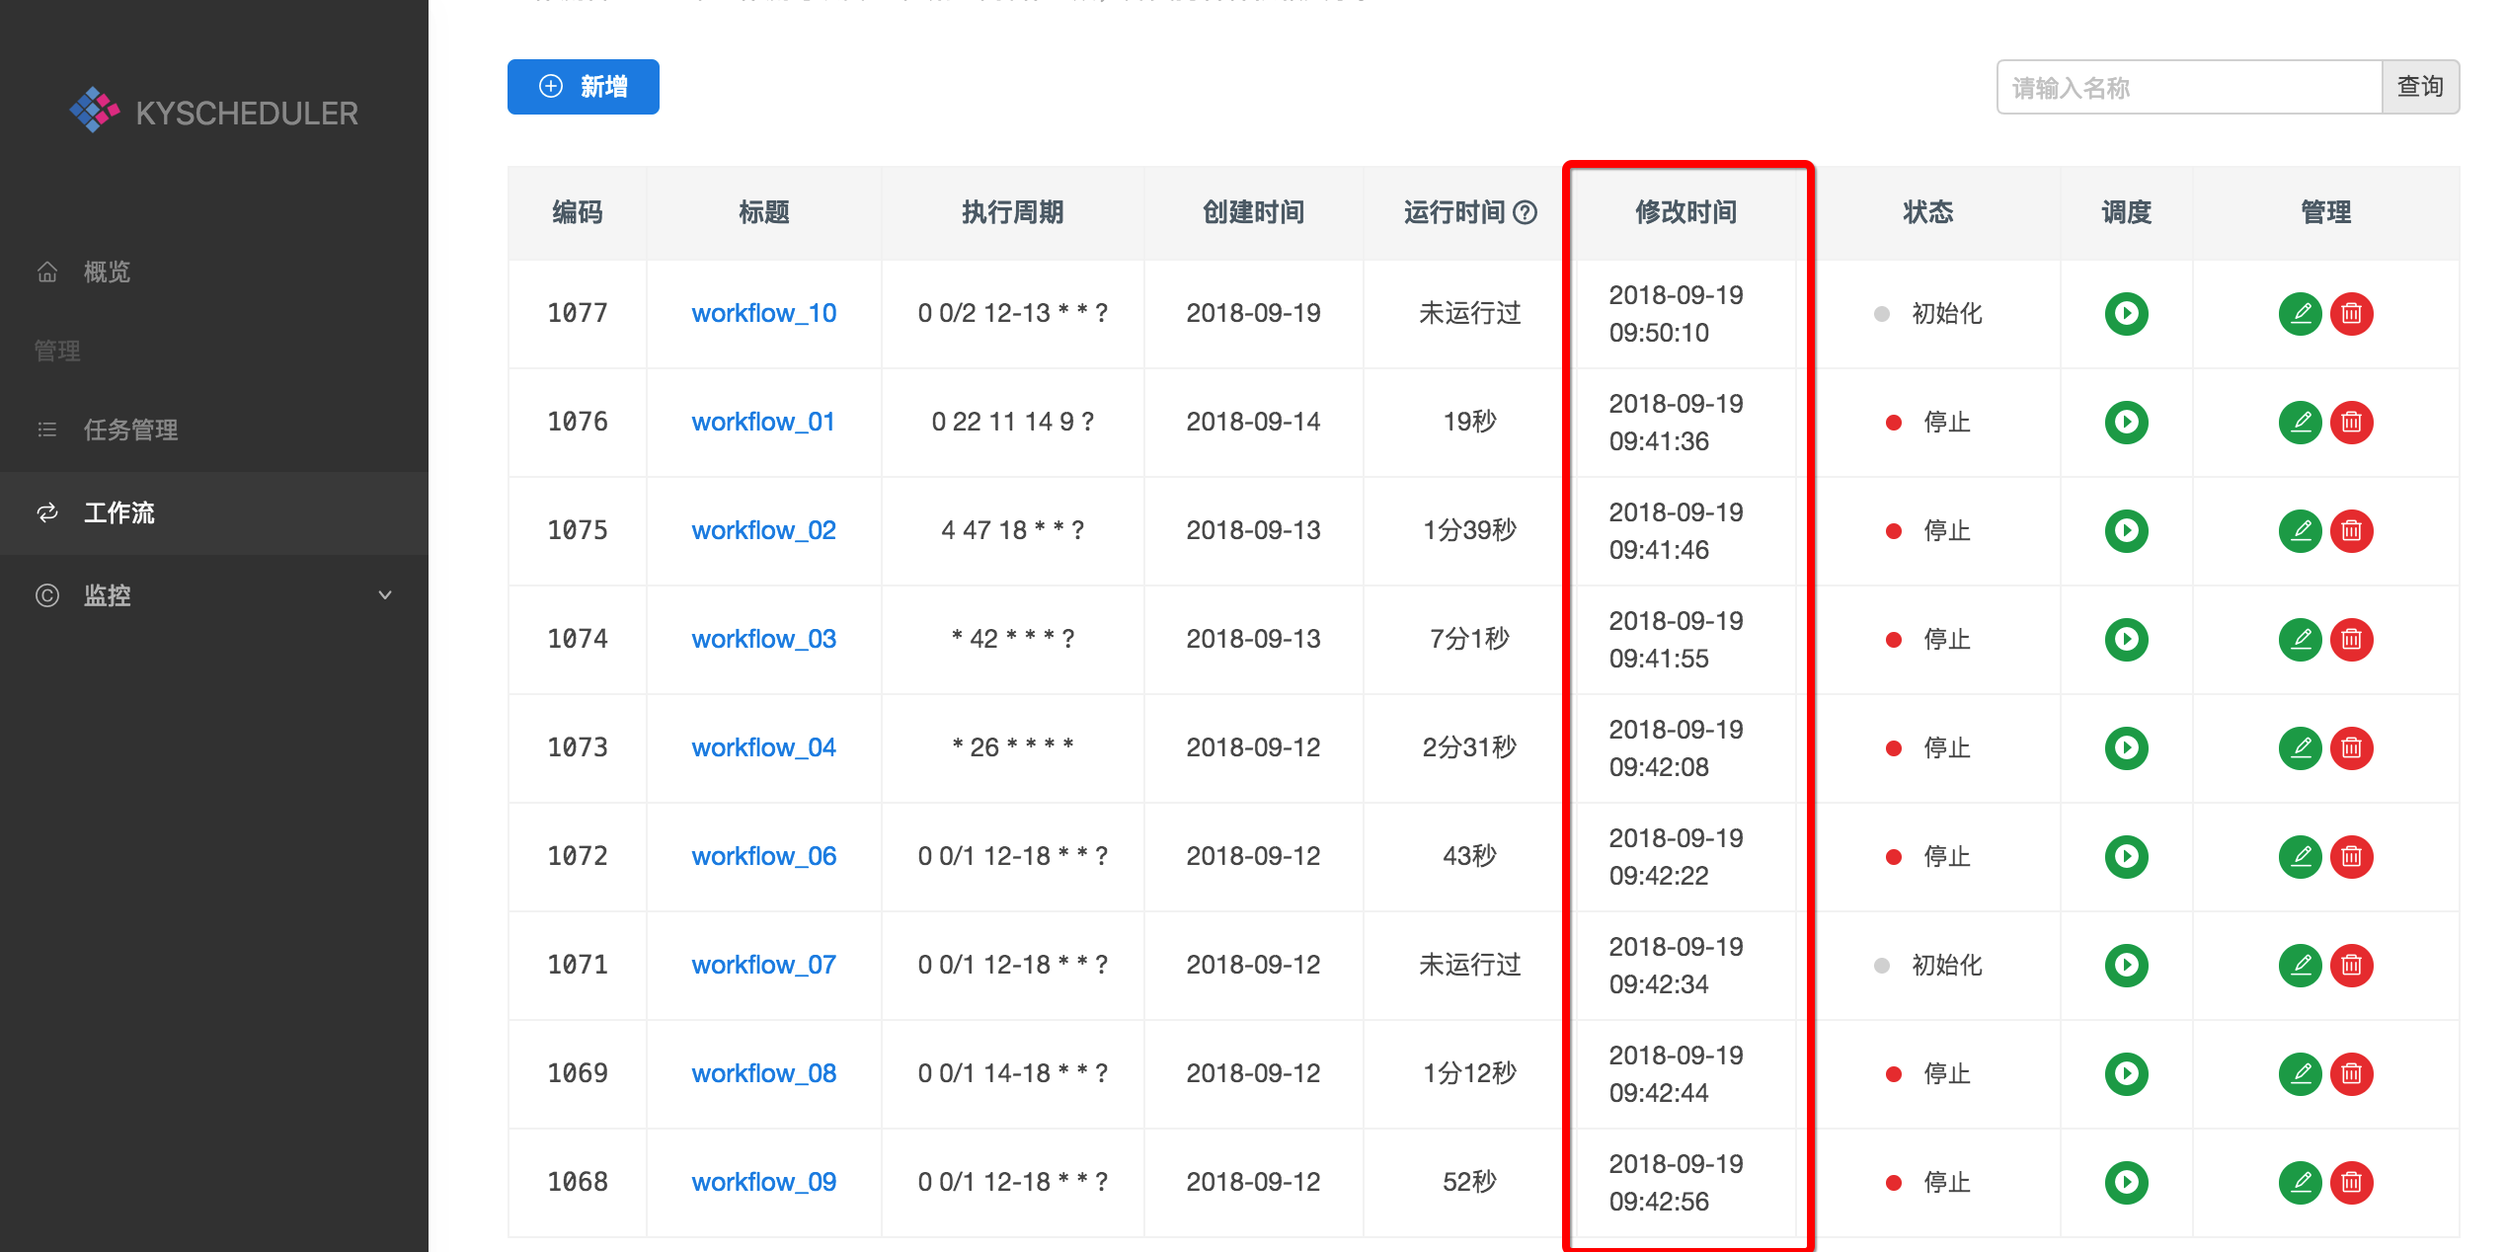
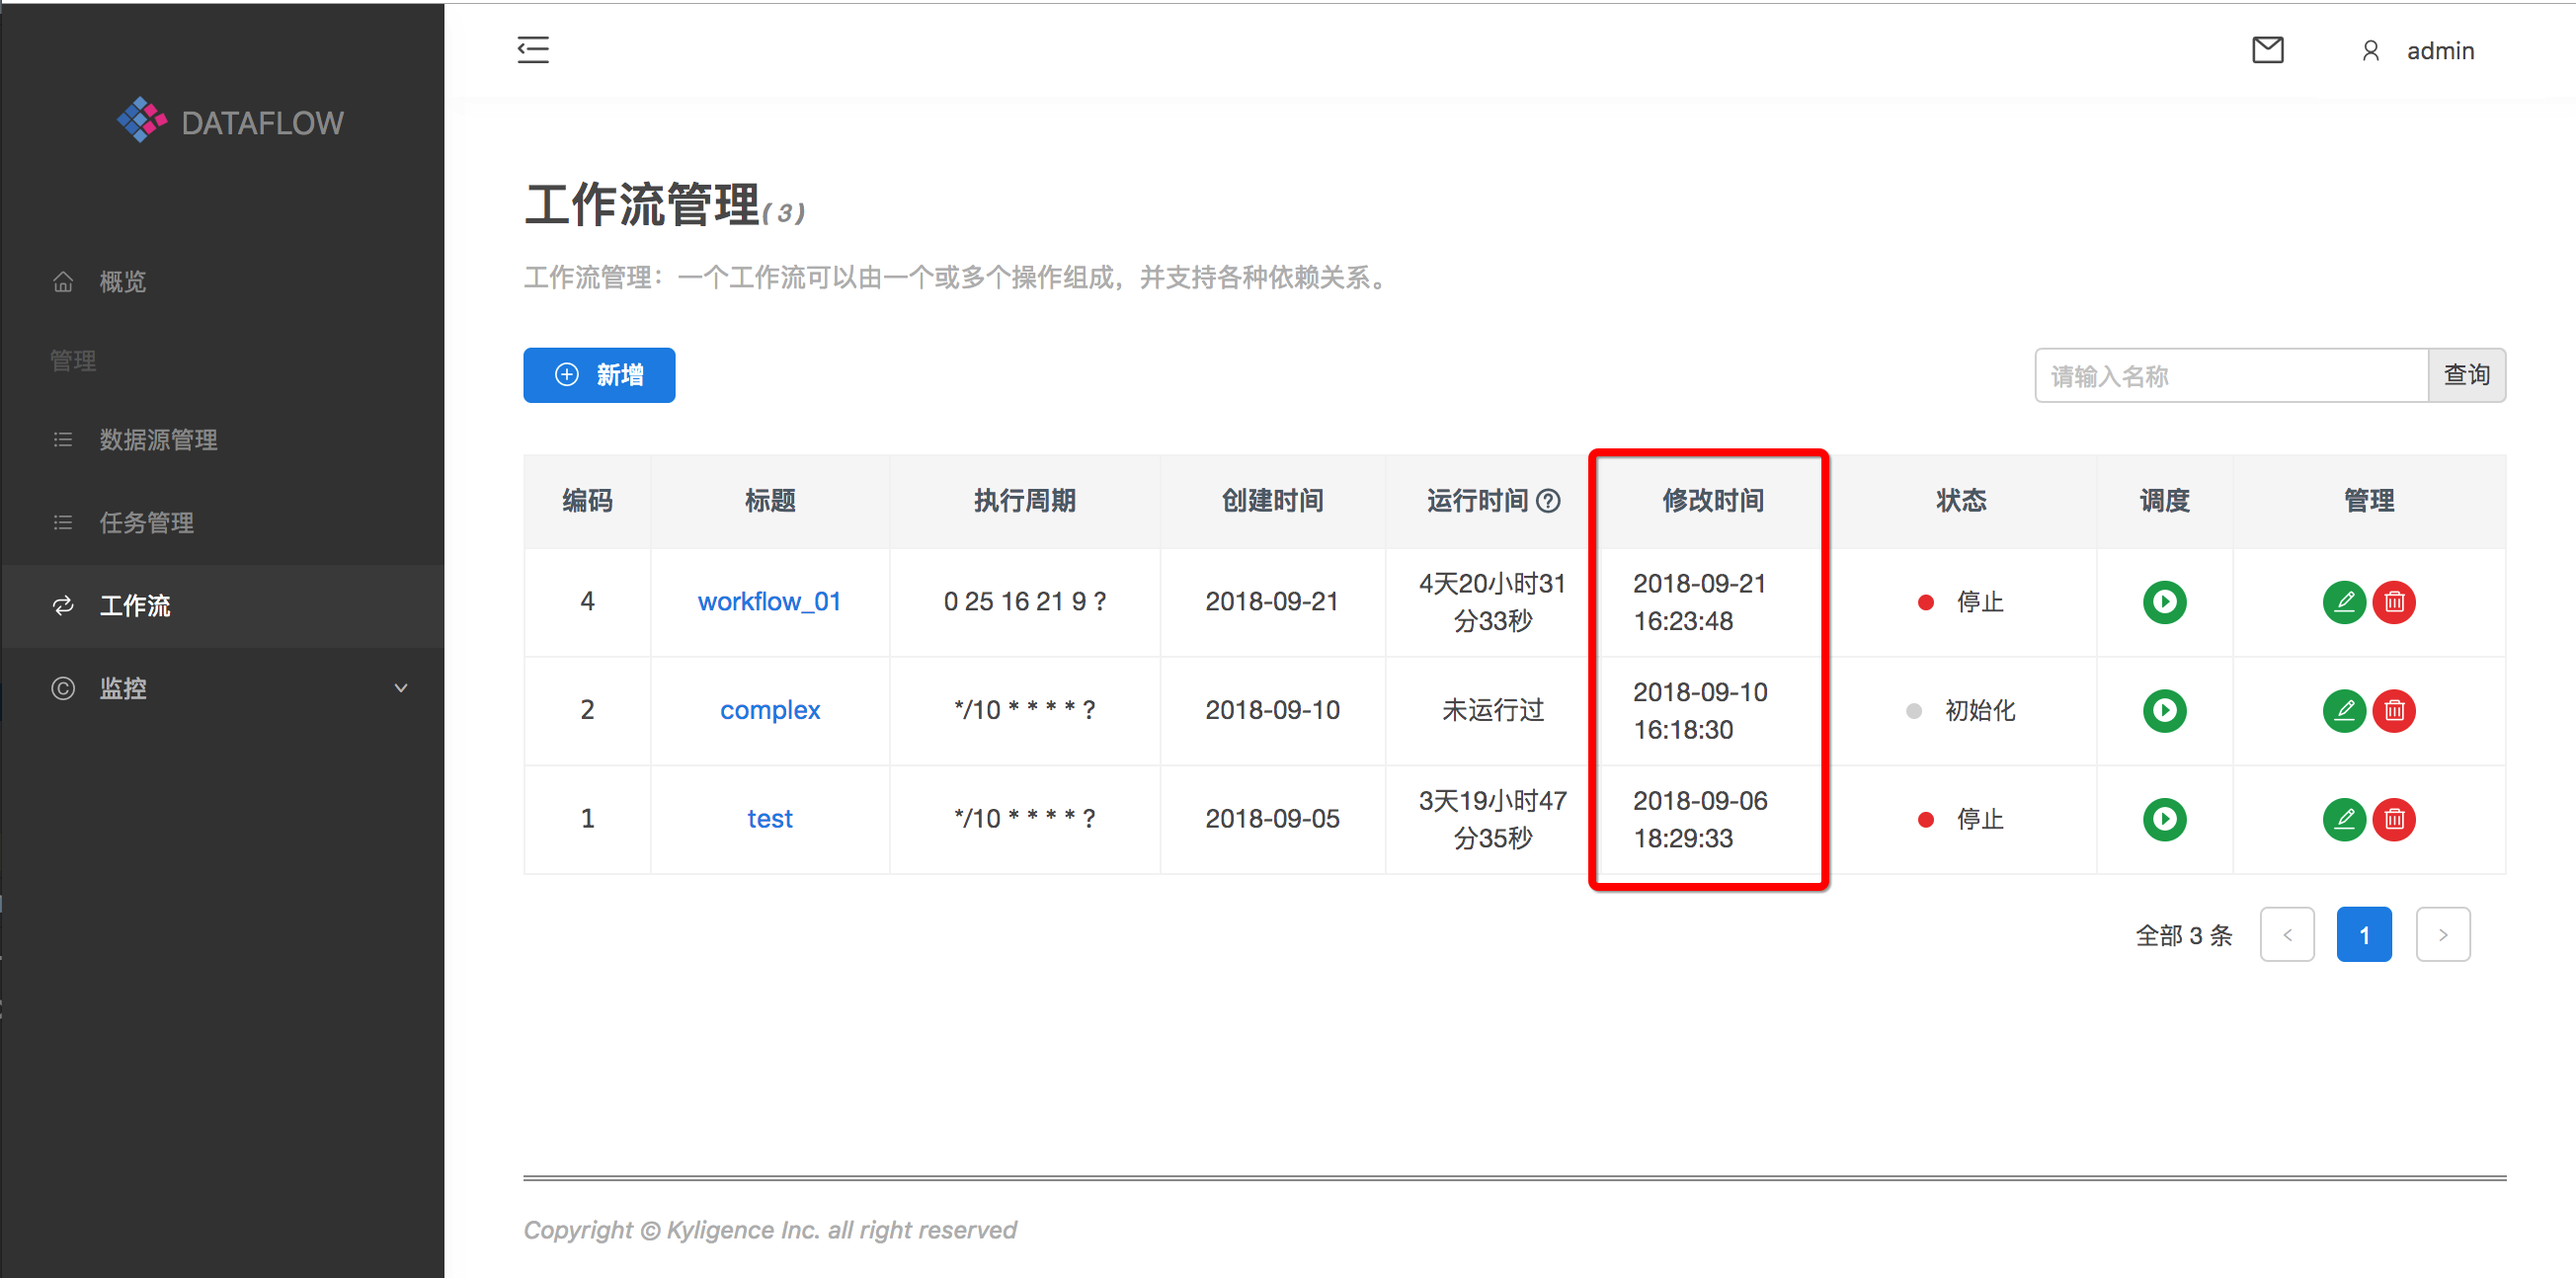
kyscheduler to dataflow

diff --git a/overview.md b/overview.md
@@ -1,10 +1,10 @@
-#### Kyligence Scheduler简介
+#### Kyligence Dataflow简介
 
-**Kyligence Scheduler** 是企业级的调度工具，它可以无缝的链接数据从生产到消费的全过程，同时帮助用户管理，监控调度任务的执行情况。
+**Kyligence Dataflow** 是企业级的调度工具，它可以无缝的链接数据从生产到消费的全过程，同时帮助用户管理，监控调度任务的执行情况。
 
-大数据从生产到存储最后到使用，通常需要经历ETL处理，建模后再到**Kyligence Enterprise**落地查询。期间涉及很多数据处理的动作，这些动作往往通过脚本去执行。**KYSCHEDULER**可以自下而上无缝的管理和控制这些动作的执行。
+大数据从生产到存储最后到使用，通常需要经历ETL处理，建模后再到**Kyligence Enterprise**落地查询。期间涉及很多数据处理的动作，这些动作往往通过脚本去执行。**DATAFLOW**可以自下而上无缝的管理和控制这些动作的执行。
 
-换句话说，**KYSCHEDULER**可以调度整个数据生产过程。
+换句话说，**DATAFLOW**可以调度整个数据生产过程。
 
 下图是产品架构图：
 

diff --git a/installation.md b/installation.md
@@ -1,20 +1,20 @@
-#### KYSCHEDULER安装及配置
+#### DATAFLOW安装及配置
 
 ##### 快速安装
 
-1. 下载 kyscheduler.tar.gz 压缩包
+1. 下载 Dataflow.tar.gz 压缩包
 
 2. 解压
 
-   `tar -zxvf kyscheduler.tar.gz /YOUR_DIR`
+   `tar -zxvf Dataflow.tar.gz /YOUR_DIR`
 
 ##### 配置
 
-配置**KYSCHEDULER**
+配置**DATAFLOW**
 
-用户需要指定**KYSCHEDULER**运行所需的JDBC连接：
+用户需要指定**DATAFLOW**运行所需的JDBC连接：
 
- 编辑： `vi INSTALL_DIR/conf/kyscheduler.properties`
+ 编辑： `vi INSTALL_DIR/conf/dataflow.properties`
 
  配置jdbc数据库：`jdbcUrl=jdbc:mysql://localhost/DATABASE_NAME`
 
@@ -32,9 +32,9 @@ jdbc数据库的用户名及密码：
 
  配置节点角色
 
-`kyscheduler.role=master`
+dataflow.role=master`
 
 配置日志路径
 
-`kyscheduler.log.path=/tmp/kyscheduler`
+dataflow.log.path=/tmp/dataflow`
 

diff --git a/README.md b/README.md
@@ -1,8 +1,8 @@
 ### README
 
-**Kyligence Scheduler** 是企业级的调度工具，帮助用户管理，监控各种调度任务的执行情况。
+**Kyligence Dataflow** 是企业级的调度工具，帮助用户管理，监控各种调度任务的执行情况。
 
-该手册将详细讲述KYSCHEDULER的安装，部署及操作，帮助用户快速掌握和使用改工具。
+该手册将详细讲述 DATAFLOW 的安装，部署及操作，帮助用户快速掌握和使用改工具。
 
 上海跬智信息技术有限公司
 

diff --git a/REST.md b/REST.md
@@ -1,6 +1,6 @@
 ##### REST API 说明
 
-KYSCHEDULER 提供了curl 的REST API ，可以用来创建action，删除action，修改action，查询action等，基于这些API，第三方系统可以与KYSCHEDULER紧密集成。
+DATAFLOW 提供了curl 的REST API ，可以用来创建action，删除action，修改action，查询action等，基于这些API，第三方系统可以与DATAFLOW紧密集成。
 
 **添加 API**
 

diff --git a/instruction.md b/instruction.md
@@ -1,6 +1,6 @@
-##### KYSCHEDULER概览
+##### DATAFLOW概览
 
-KYSCHEDULER的概览页面，列出了当前调度任务的执行的执行情况，包括：
+DATAFLOW的概览页面，列出了当前调度任务的执行的执行情况，包括：
 
 **正在运行**：当前正在执行的调度任务的数量。
 

diff --git a/SUMMARY.md b/SUMMARY.md
@@ -1,6 +1,6 @@
 # Summary
 
-* Kyligence Scheduler
+* Kyligence Dataflow
   * [README](README.md)
 * 产品简介
     * [概述](overview.md)

diff --git a/operation.md b/operation.md
@@ -1,4 +1,4 @@
-#### KYSCHEDULER操作说明
+#### DATAFLOW操作说明
 
 具体介绍Action, Workflow, Task的操作。
 
